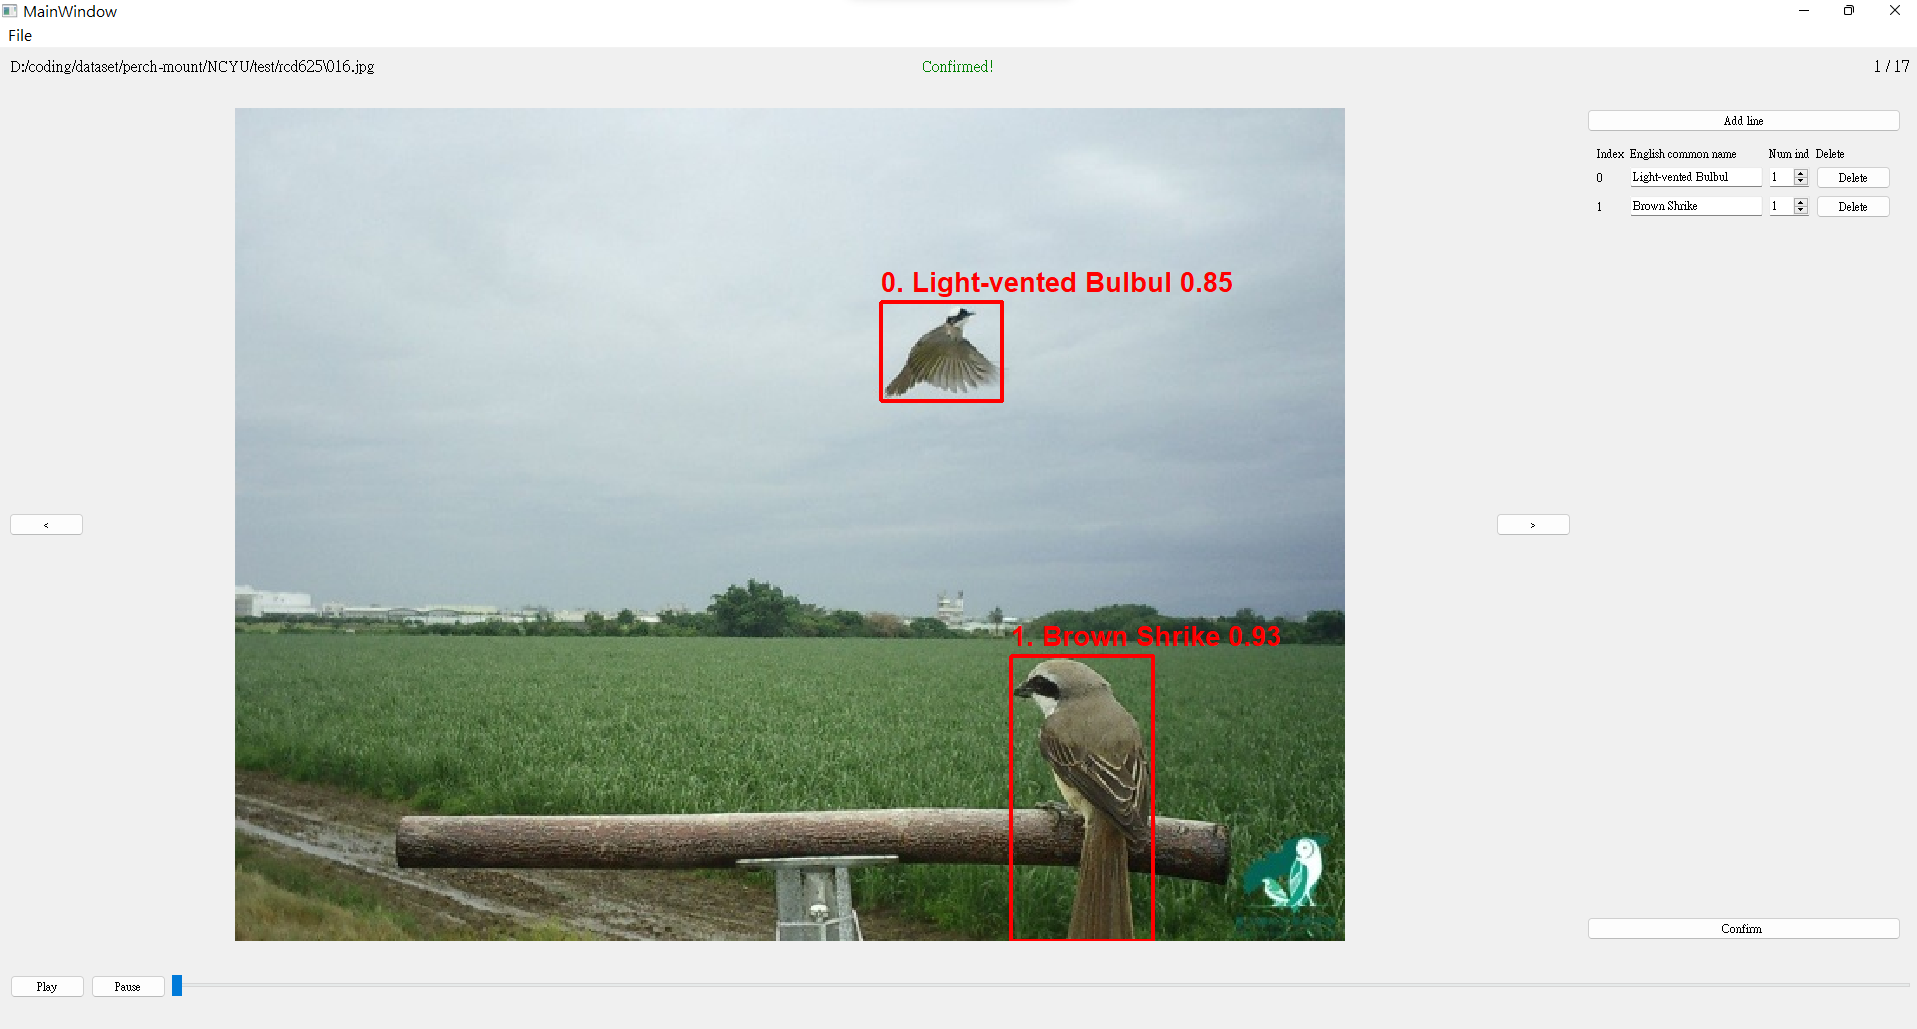
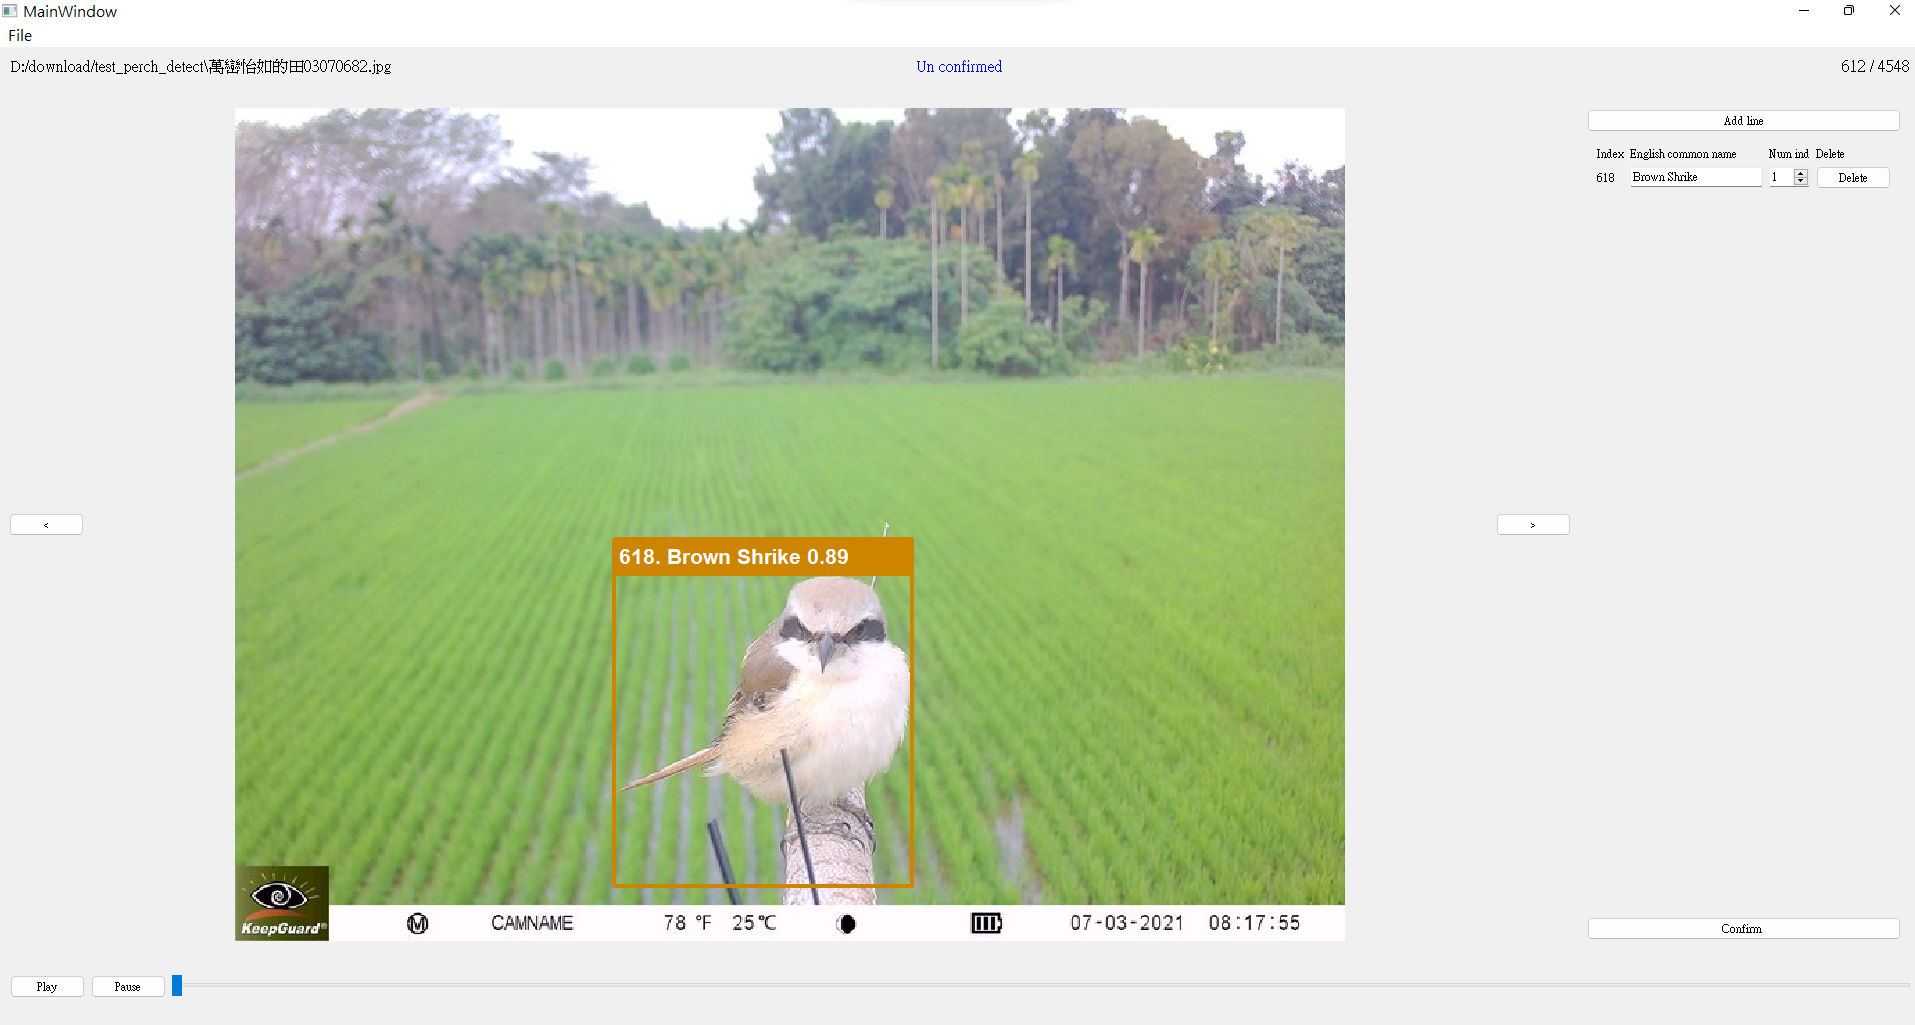
species color

diff --git a/review.py b/review.py
@@ -15,8 +15,9 @@ img_formats = ['bmp', 'jpg', 'jpeg', 'png', 'tif', 'tiff', 'dng']
 vid_formats = ['mov', 'avi', 'mp4', 'mpg', 'mpeg', 'm4v', 'wmv', 'mkv']
 
 with open("./bird_names.yaml", "r") as birds:
-    bird_names = yaml.load(birds, Loader=yaml.CLoader)["bird_name"]
-
+    yaml_file = yaml.load(birds, Loader=yaml.CLoader)
+    bird_names = yaml_file["bird_name"]
+    bird_color = yaml_file["bird_colors"]
 
 class MainWindow(QMainWindow):
     def __init__(self):
@@ -27,6 +28,10 @@ class MainWindow(QMainWindow):
         self.pred = pd.DataFrame({})
         self.dir_path = ""
         self.csv_path = ""
+
+        # model species info for box color
+        # color_sp = pd.read_csv("./model/exp_color/classes_color.csv")
+        # infrad_sp = pd.read_csv("./model/exp_infrared/color_infrared.csv")
 
         # Tool box
         self.open_dir = self.findChild(QAction, "actionOpen_Dir")
@@ -125,12 +130,20 @@ class MainWindow(QMainWindow):
             painter = QPainter()
             painter.begin(obj)
             if obj == self.paint_label:
-                painter.setPen(QPen(Qt.red, 4, Qt.SolidLine))  # Some specific painting
-                painter.setFont(QFont('Arial', 20, QFont.Bold))
-            for b in self.bbox:
-                painter.drawRect(b[0], b[1], b[2], b[3])
-                ty = b[1] - 10 if b[1] > 50 else b[1] + 50
-                painter.drawText(QPoint(b[0], ty), str(b[6]) + ". " + b[4] + " " + str(b[5]))
+                painter.setFont(QFont('Arial', 16, QFont.Bold))
+                for b in self.bbox:
+                    painter.setPen(QPen(QColor(b[7][0], b[7][1], b[7][2]), 4, Qt.SolidLine))
+                    painter.setBrush(Qt.NoBrush)
+                    painter.drawRect(b[0], b[1], b[2], b[3])
+                    painter.setBrush(QColor(b[7][0], b[7][1], b[7][2]))
+                    painter.drawRect(b[0], b[1] - 35, b[2], 35)
+
+                    # draw text and background
+                    painter.setPen(QPen(Qt.white))  # Some specific painting
+                    ty = b[1] - 10 if b[1] > 50 else b[1] + 50
+                    print_name = str(b[6]) + ". " + b[4] + " " + str(b[5])
+                    painter.drawText(QPoint(b[0] + 5, ty), print_name)
+
             painter.end()
             return True
         return super().eventFilter(obj, event)
@@ -362,20 +375,29 @@ class MainWindow(QMainWindow):
 
                 # draw bounding box
                     if pd.isnull(row["name"]) or pd.isnull(row["reviewed_name"]):
-                        boxes.append([0, 0, 0, 0, "", "", ""])
+                        boxes.append([0, 0, 0, 0, "", "", "", [0,0,0]])
                     else:
+                        if row["reviewed_name"] in list(bird_color.keys()):
+                            rgb_r = bird_color[row["reviewed_name"]][0]
+                            rgb_g = bird_color[row["reviewed_name"]][1]
+                            rgb_b = bird_color[row["reviewed_name"]][2]
+                        else:
+                            rgb_r = 28
+                            rgb_g = 28
+                            rgb_b = 28
+
                         box_x = int(round((pre_img_w * (row["xmin"]/iw)), 0))
                         box_y = int(round((pre_img_h * (row["ymin"]/ih)), 0))
                         box_w = int(round((row["xmax"] - row["xmin"])/iw * pre_img_w, 0))
                         box_h = int(round((row["ymax"] - row["ymin"])/ih * pre_img_h, 0))
-                        boxes.append([box_x, box_y, box_w, box_h, row["reviewed_name"], round(row["confidence"], 2), i])
+                        boxes.append([box_x, box_y, box_w, box_h, row["reviewed_name"], round(row["confidence"], 2), i, [rgb_r, rgb_g, rgb_b]])
 
                 self.bbox = boxes
                 self.paint_label.setGeometry(self.ori_x, self.ori_y, pre_img_w, pre_img_h)
 
             elif fat in vid_formats:
                 self.paint_label.setGeometry(0, 0, 0, 0)
-                self.bbox = [[0, 0, 0, 0, "", "", ""]]
+                self.bbox = [[0, 0, 0, 0, "", "", "", [0,0,0]]]
 
                 self.stack.setCurrentIndex(1)
                 self.mediaPlayer = QMediaPlayer(None, QMediaPlayer.VideoSurface)
